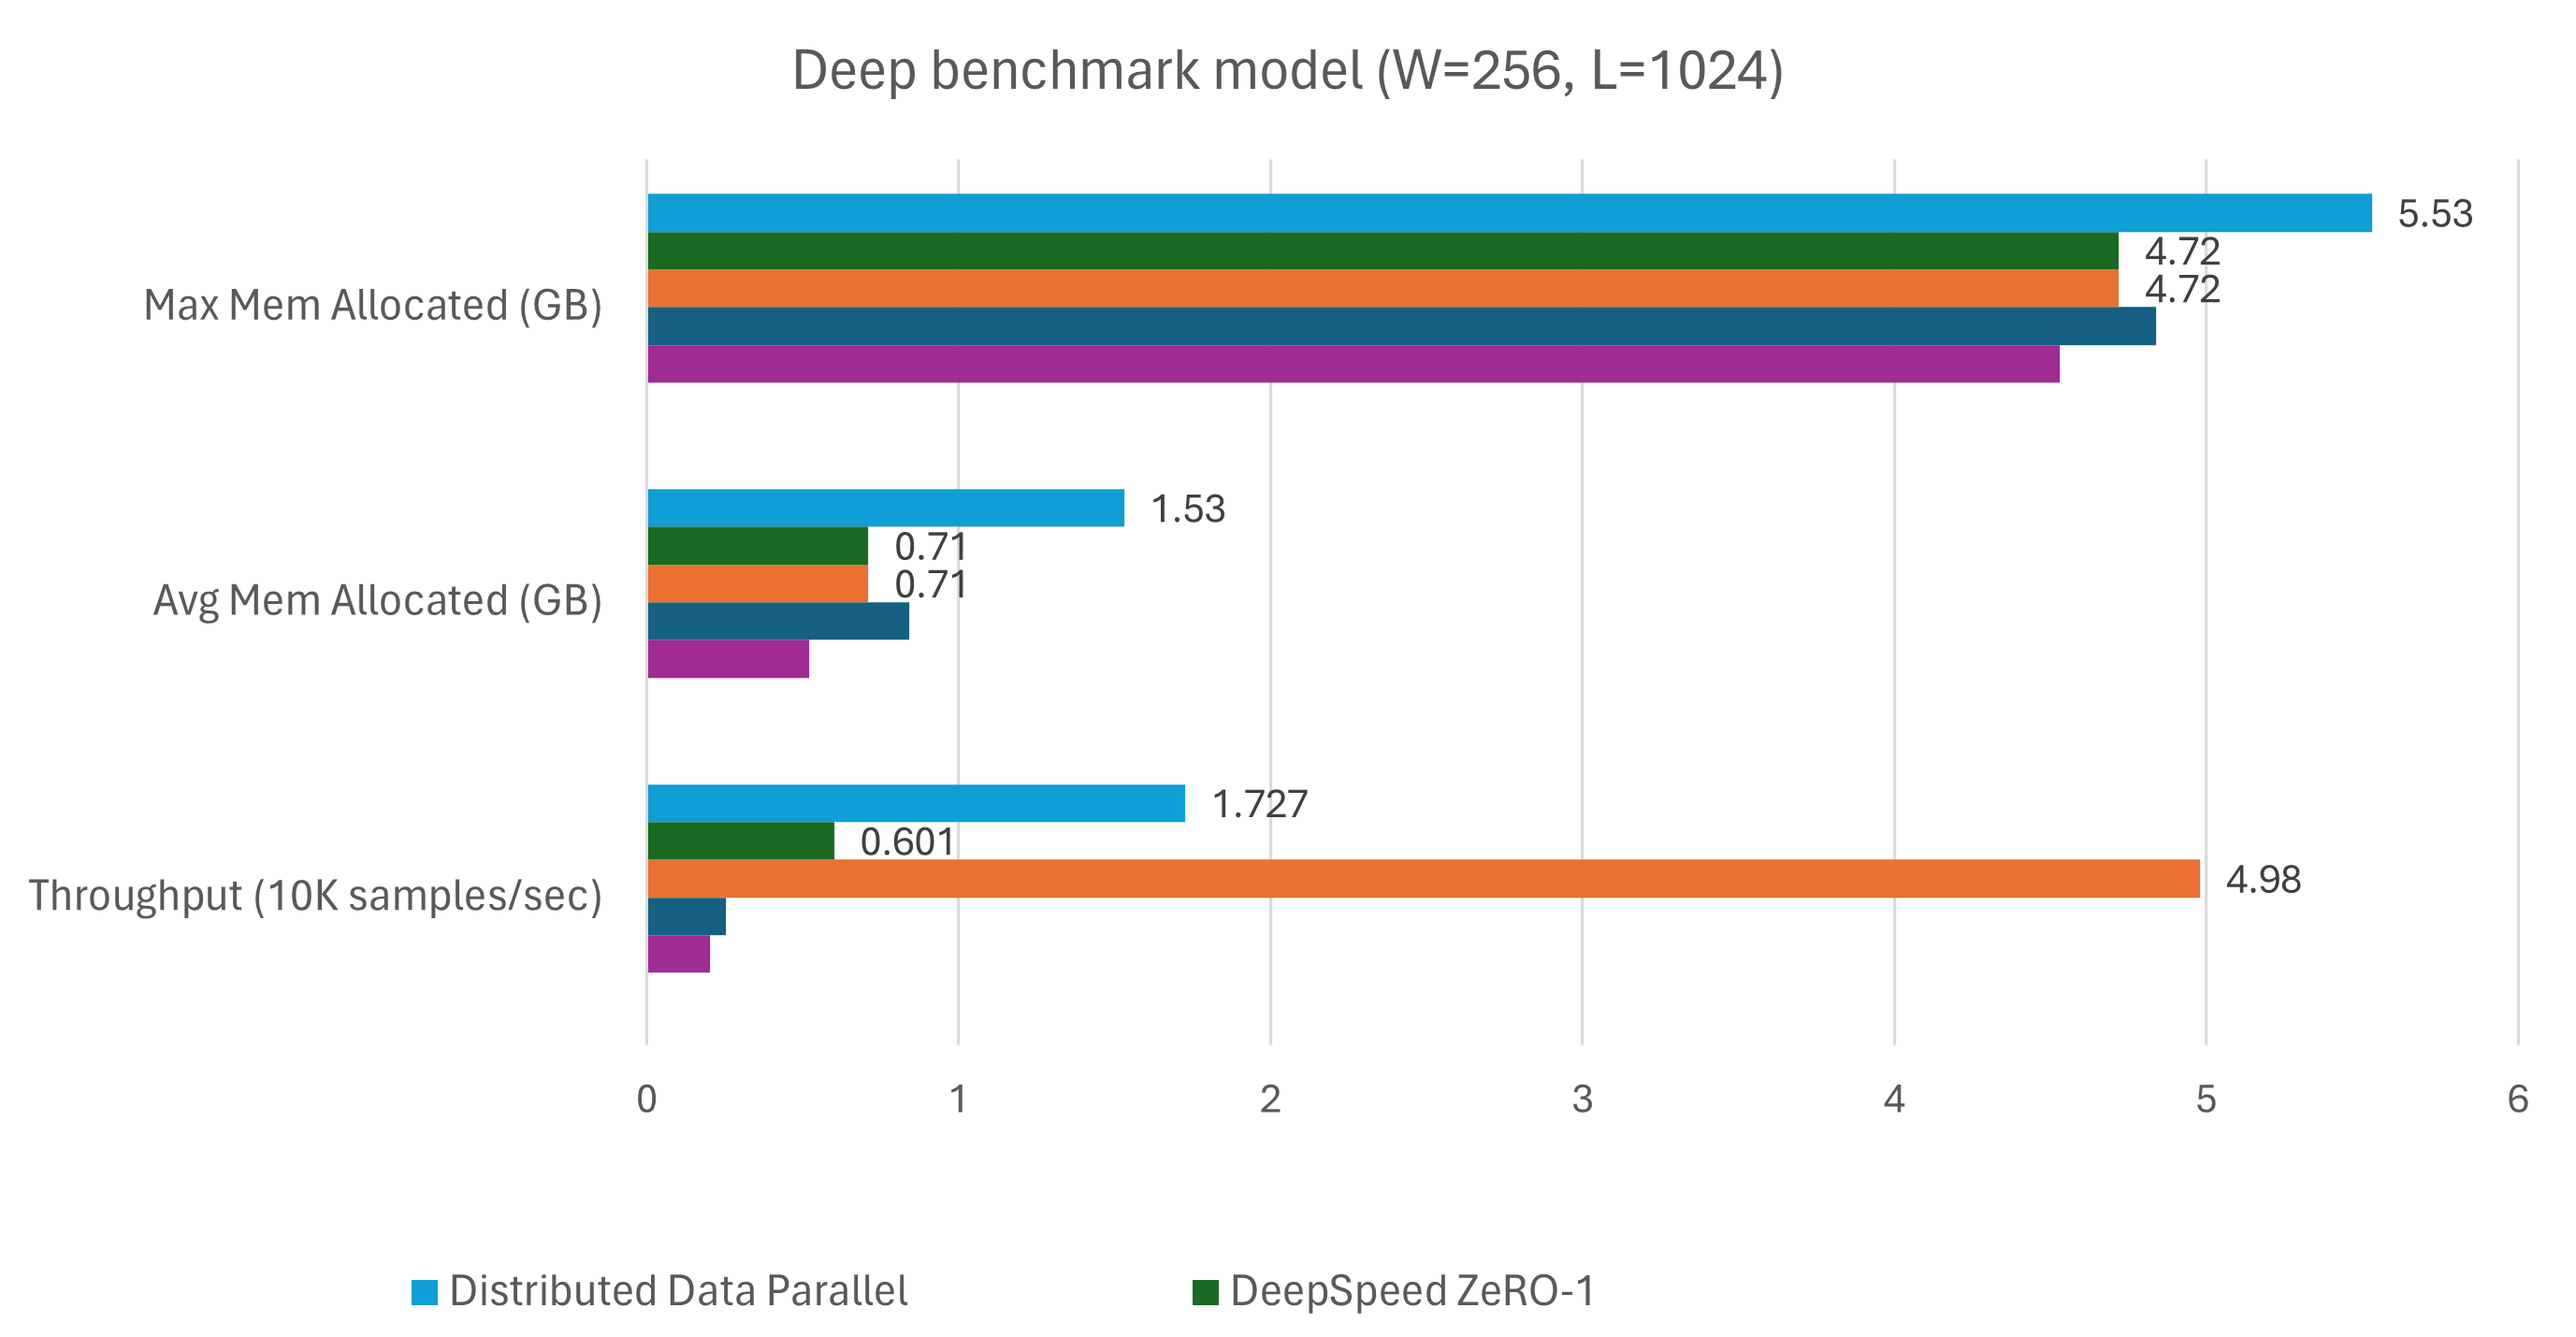
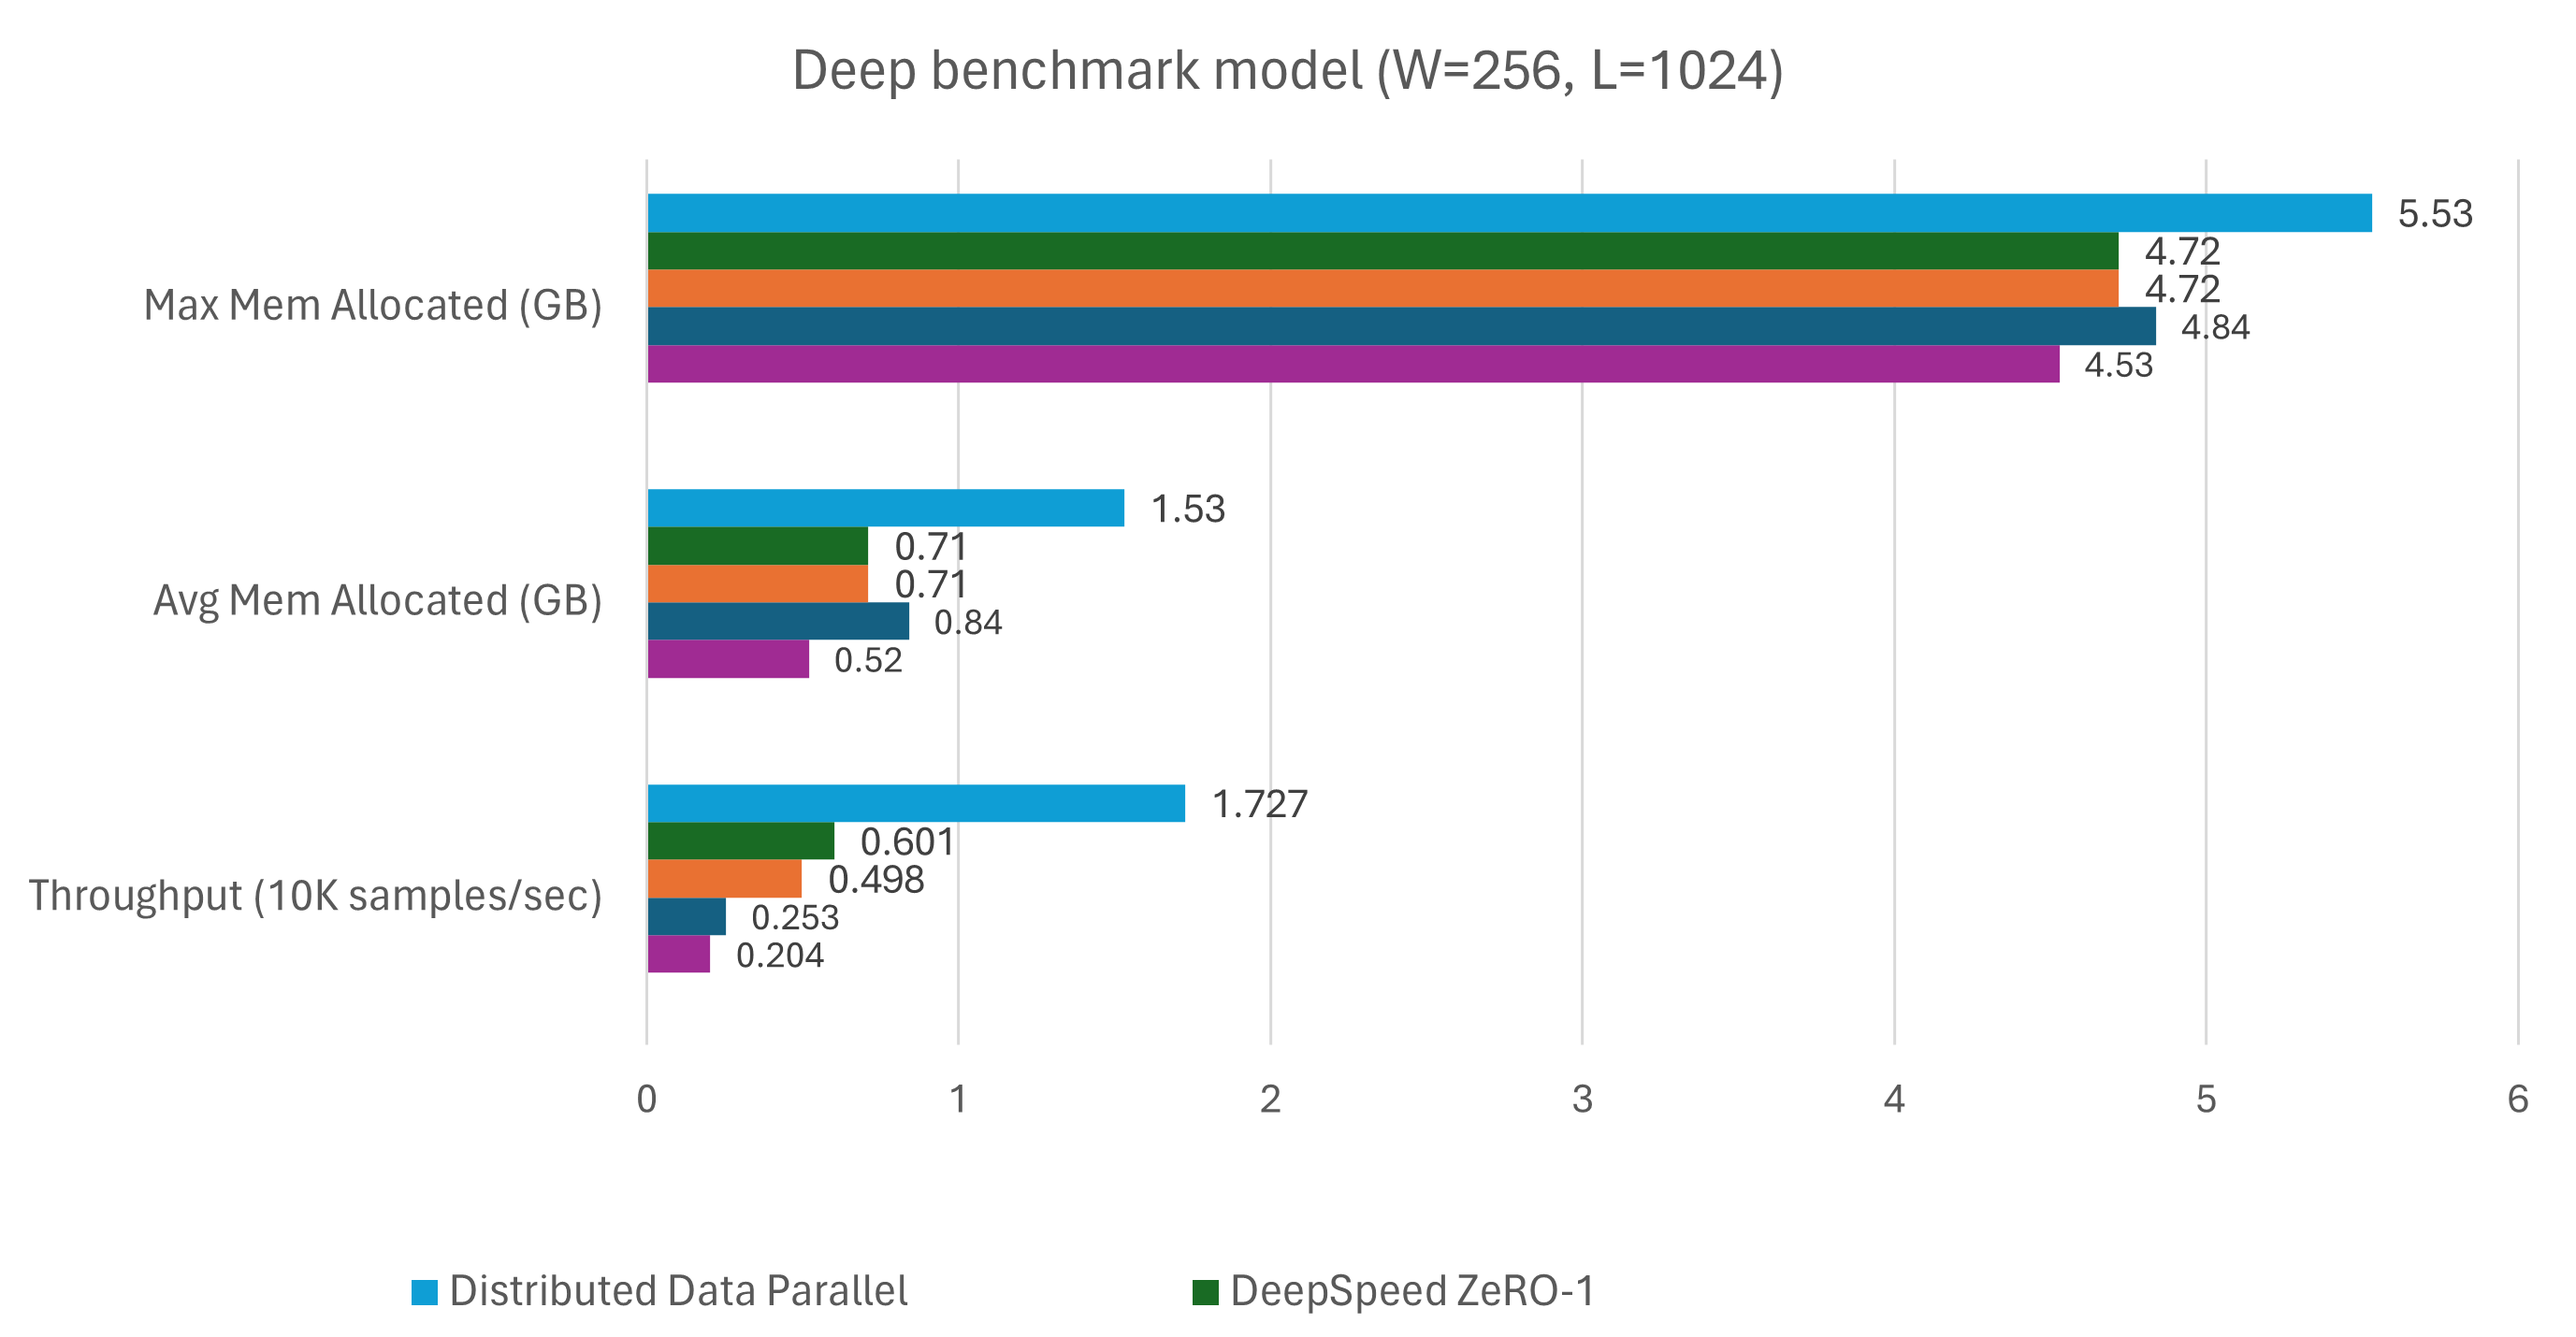
benchmark update

Changed region(s): [[0.281, 0.6154, 0.9056, 0.7385], [0.8431, 0.2154, 0.8744, 0.2462], [0.8119, 0.2462, 0.8431, 0.2769]]

diff --git a/_posts/2023-08-18-GPT-lite-DeepSpeed.md b/_posts/2023-08-18-GPT-lite-DeepSpeed.md
@@ -585,13 +585,10 @@ We benchmark three models: a wide version of our benchmark model, with a high pa
 <img width="80%" height="80%" src="/assets/GPT-lite-DeepSpeed/benchmark_deep.png"/>
 
 A few observations:
-- the default communication bucket sizes (`5e9`) in the config leads to a very high memory usage, of approximately the double of the amounts in stages 2 and 3. In these scenarios, a large bucket size leads to a the max memory usage that becomes prohibitive;
-- note the difference between average memory and maximum memory. That's all memory dedicated to activations and residual buffers;
-- as you move from DDP to ZeRO-1, ZeRO-2, ZeRO-3 and ZeRO-Infinity, the memory increase and throughput are reduced. As expected, we swap data locality for communication of parameters, and pay the performance price for the communication/offload of parameters;
+- Looking at the max vs average memory, note that the max memory in theory should be much higher at high ZeRO stages compared to low ZeRO stages and DPP. This is due to more parameters being communicated requiring more communication buffers. However, setting the communication bucket sizes to a low value in the config file overcomes this effect. In fact, we benchmarked several runs with default communication bucket sizes (`5e9`) and it led to a very high memory usage (of approximately double the amount in stages 2 and 3), and becomes prohibitive for some runs;
+- Again, note the difference between average memory and maximum memory. That volatility in memory consumption is due to all memory dedicated to activations, residual buffers and communication buffers;
+- In ideal scenarios, as you move from DDP to ZeRO-1, ZeRO-2, ZeRO-3 and ZeRO-Infinity, the memory increase and throughput are reduced. As expected, we swap data locality for communication of parameters, and pay the performance price for the communication/offload of parameters. This is the pattern in the deep benchmark model. However, the shallow model does not respond similarly, and I am still trying to understand why.   
 
-
-[//]: # {: style="text-align:center; font-size: small;"}
-[//]: #<img width="100%" height="100%" src="/assets/GPT-lite-DeepSpeed/benchmark.png"/>
 
 ### More resources 
 
